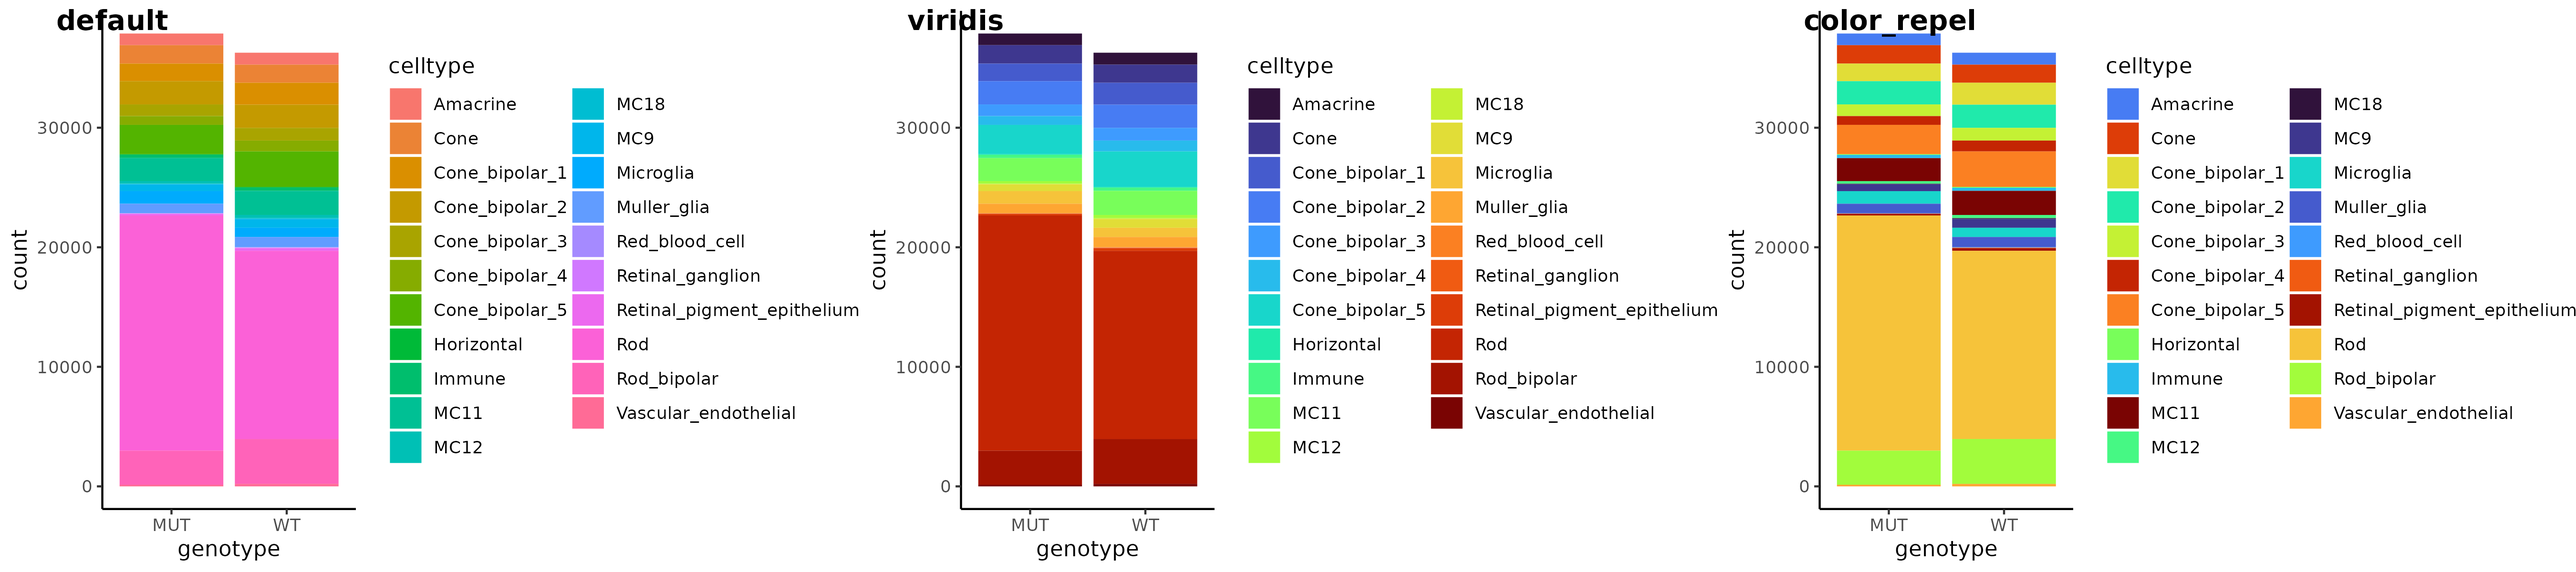
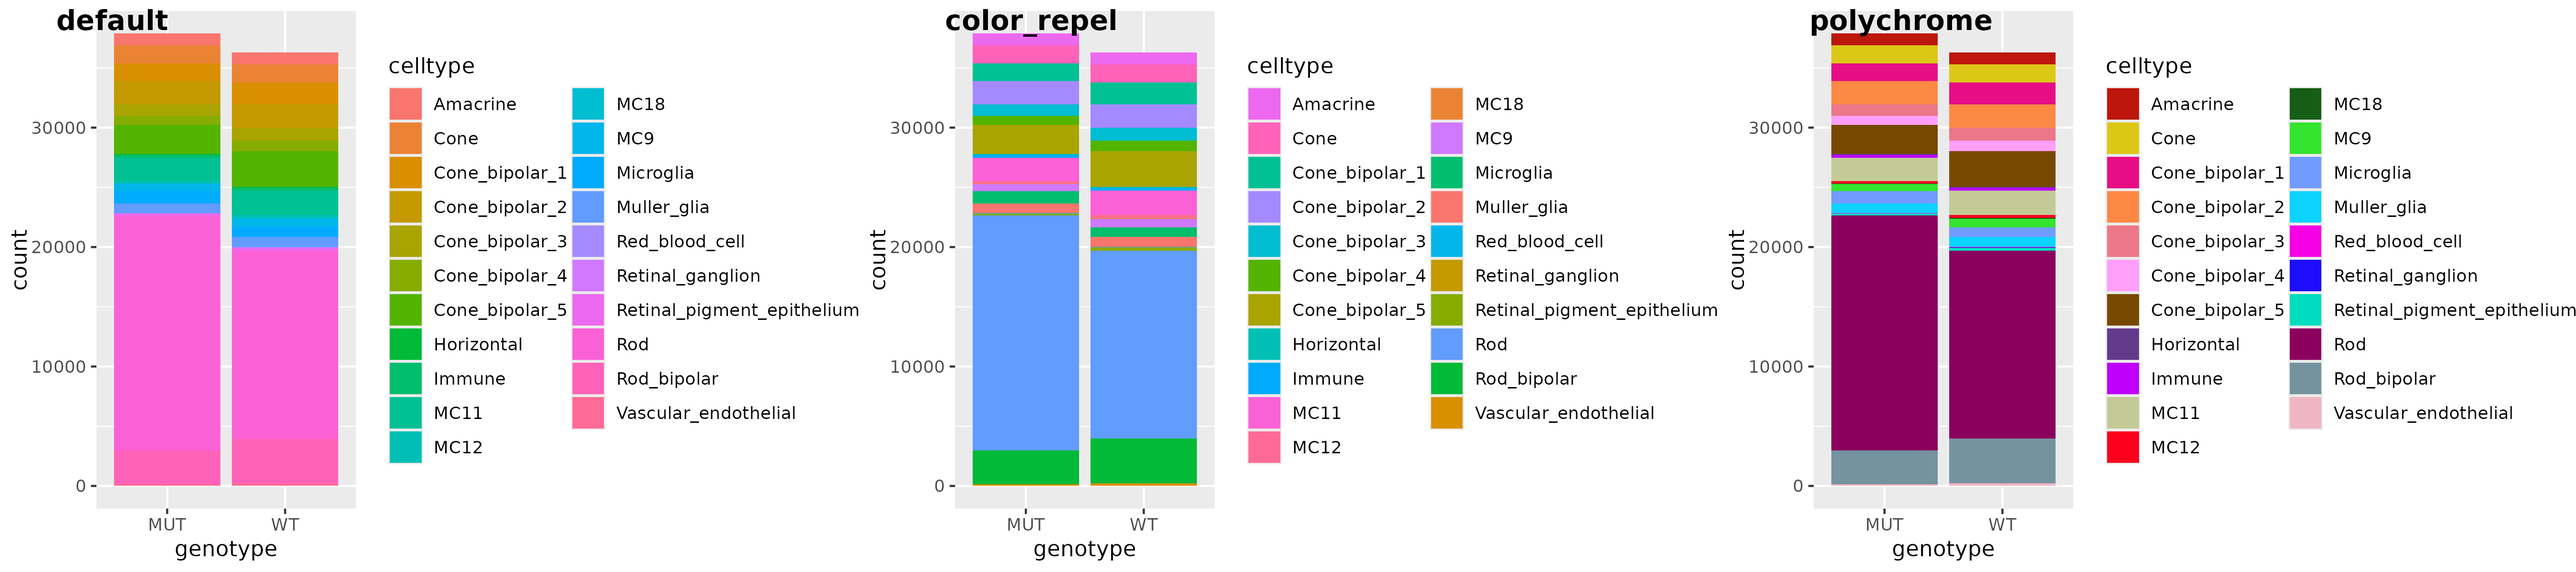
polychrome example update, and note on ggplot2 3.5

diff --git a/README.md b/README.md
@@ -44,11 +44,11 @@ cowplot::plot_grid(a, b,
 
 ```
 a <- readRDS("bar_gg.rds")
-b <- a + scale_fill_viridis_d(option = "H")
-c <- b + scale_fill_manual(values = color_repel(b, col = "fill"))
-# or use wrapper
-c <- gg_color_repel(b, col = "fill")
-cowplot::plot_grid(a,b,c, labels = c("default", "viridis", "color_repel"), nrow = 1)
+# `color_repel` reorders colors
+b <- a + scale_fill_manual(values = color_repel(a, col = "fill"))
+# or use wrapper, with option to recolor with `polychrome`- better suited for 20+ colors
+c <- gg_color_repel(a, sim = colorspace::deutan, polychrome_recolor = TRUE)
+cowplot::plot_grid(a, b, c, labels = c("default", "color_repel", "polychrome"), nrow = 1)
 ```
 
 <img align="center" width="900" height="200" src="inst/stackbar_example.png">

diff --git a/NEWS.md b/NEWS.md
@@ -1,6 +1,7 @@
 # Changes in version 0.4.1 (2025-01-15)
 * Support recoloring with Polychrome package
 * Fixed recoloring internal logic to be more flexible
+* Package is ggplot2 3.5+ compatible, but note that saved ggplot objects of lower versions may not be
 
 # Changes in version 0.4.0 (2025-01-06)
 * Support for mascarade package
